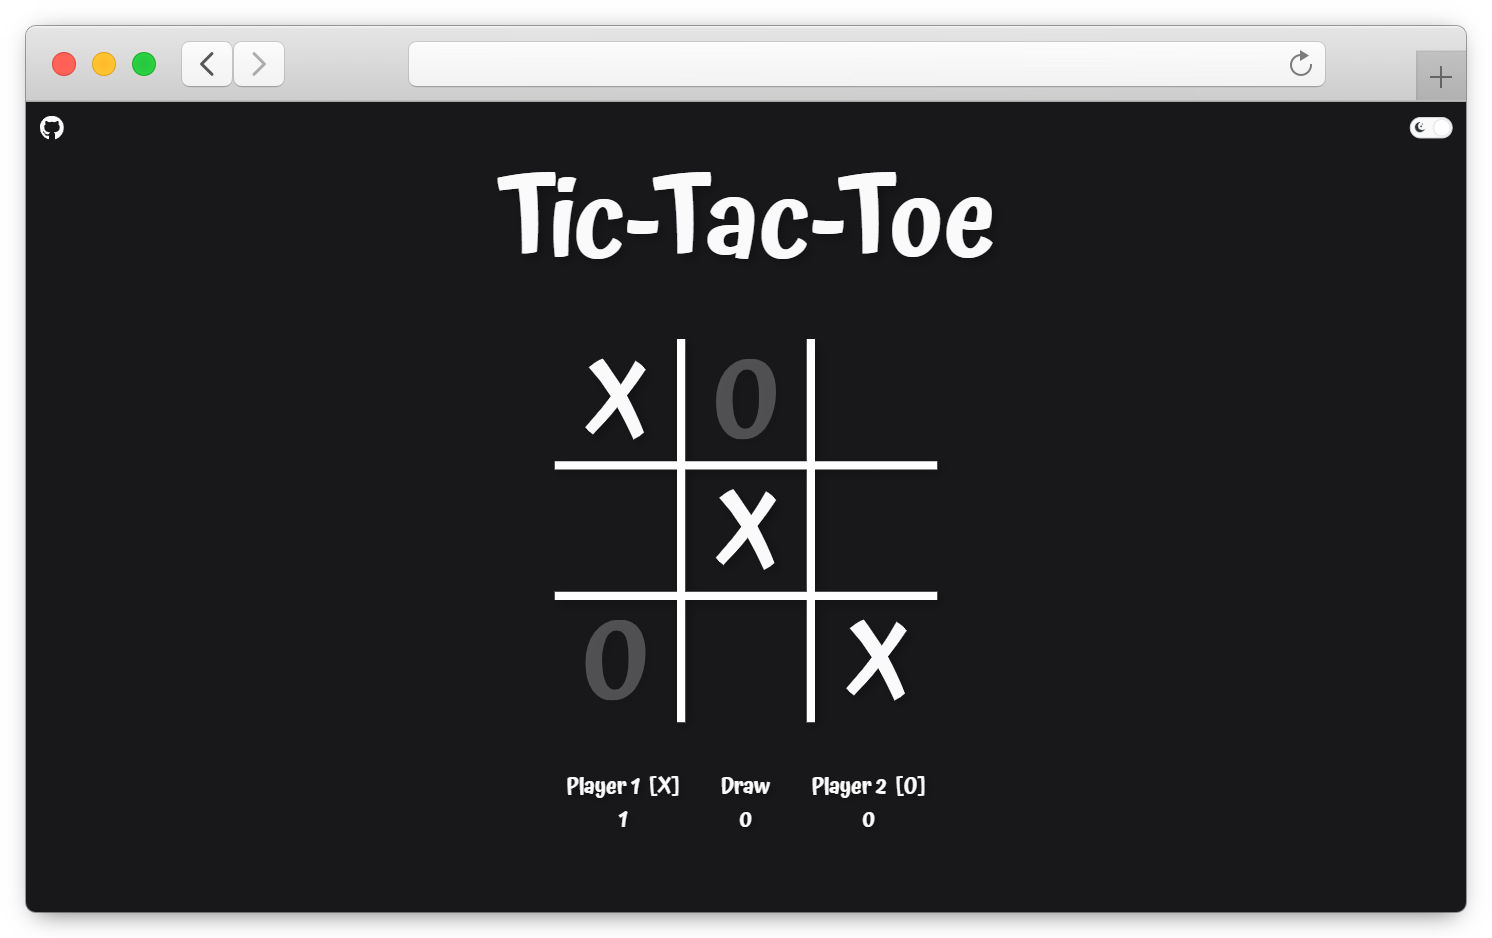
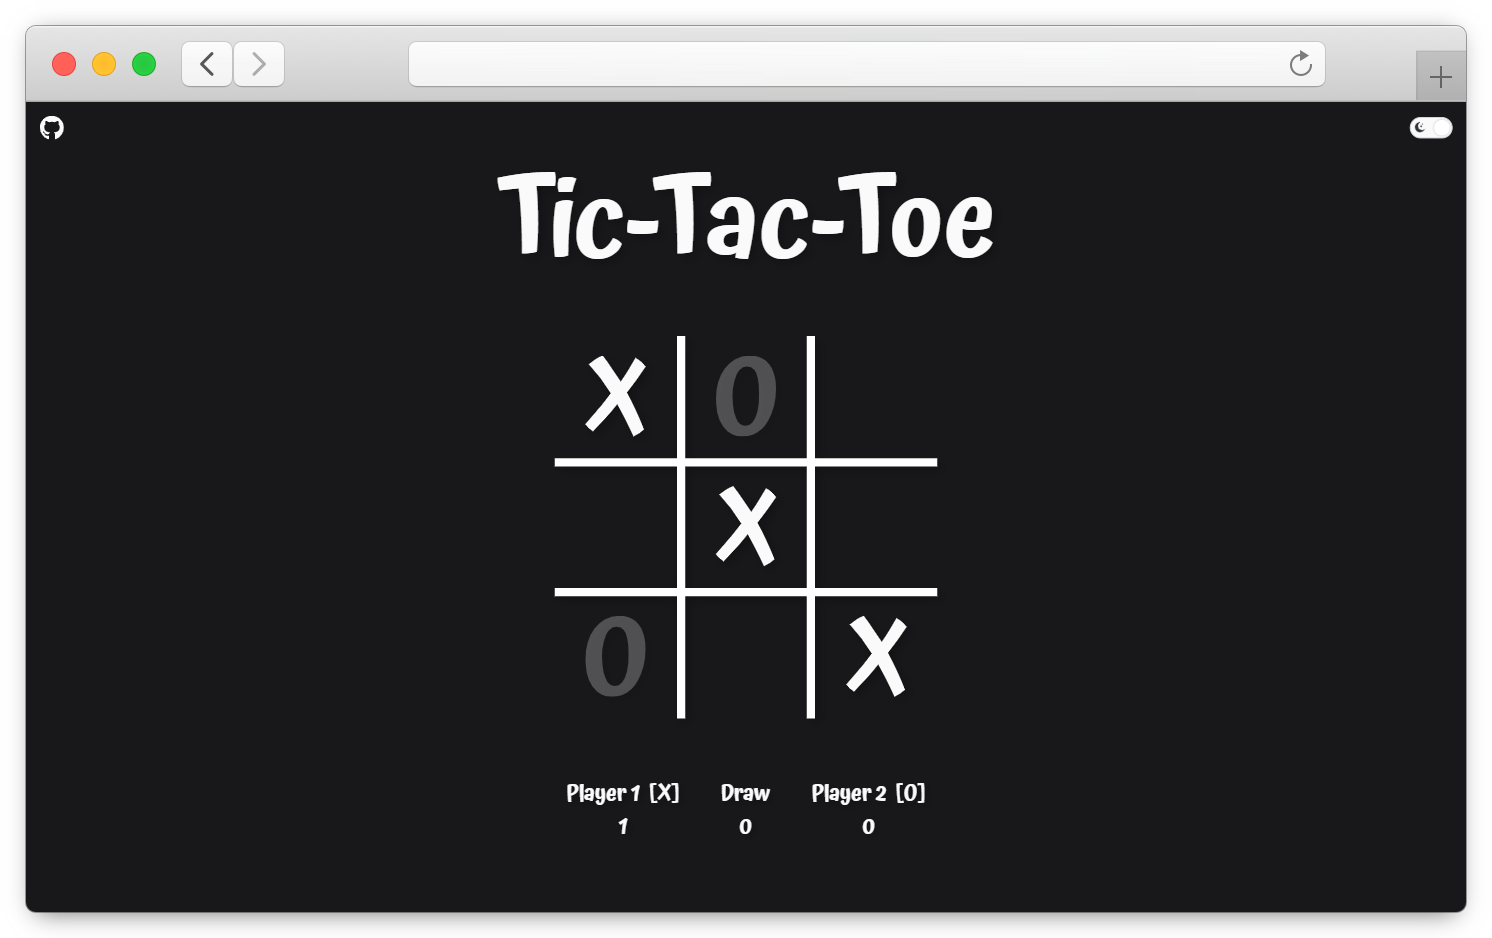
Update _score.scss and header.scss files

diff --git a/src/assets/sass/layout/_header.scss b/src/assets/sass/layout/_header.scss
@@ -39,7 +39,7 @@
 
 .header__game-name {
   font-family: 'Atma';
-  font-size: 6.4rem;
+  font-size: 7.2rem;
   white-space: nowrap;
   @include drop-shadow(0.3rem, 0.3rem, 0.3rem, map-get($colors, 'shadow', 'black-25'));
 }
@@ -57,7 +57,7 @@
   }
 
   .header__game-name {
-    font-size: 8.4rem;
+    font-size: 9.2rem;
     @include drop-shadow(0.4rem, 0.4rem, 0.4rem, map-get($colors, 'shadow', 'black-25'));
   }
 }

diff --git a/src/assets/sass/components/_score.scss b/src/assets/sass/components/_score.scss
@@ -9,7 +9,7 @@
   font-size: 1.8rem;
   gap: 2.5rem;
   justify-content: center;
-  padding: 4.8rem 1.6rem 6.4rem;
+  padding: 6.4rem 1.6rem;
   text-align: center;
   white-space: pre;
   @include drop-shadow(0.1rem, 0.1rem, 0.1rem, map-get($colors, 'shadow', 'black-25'));
